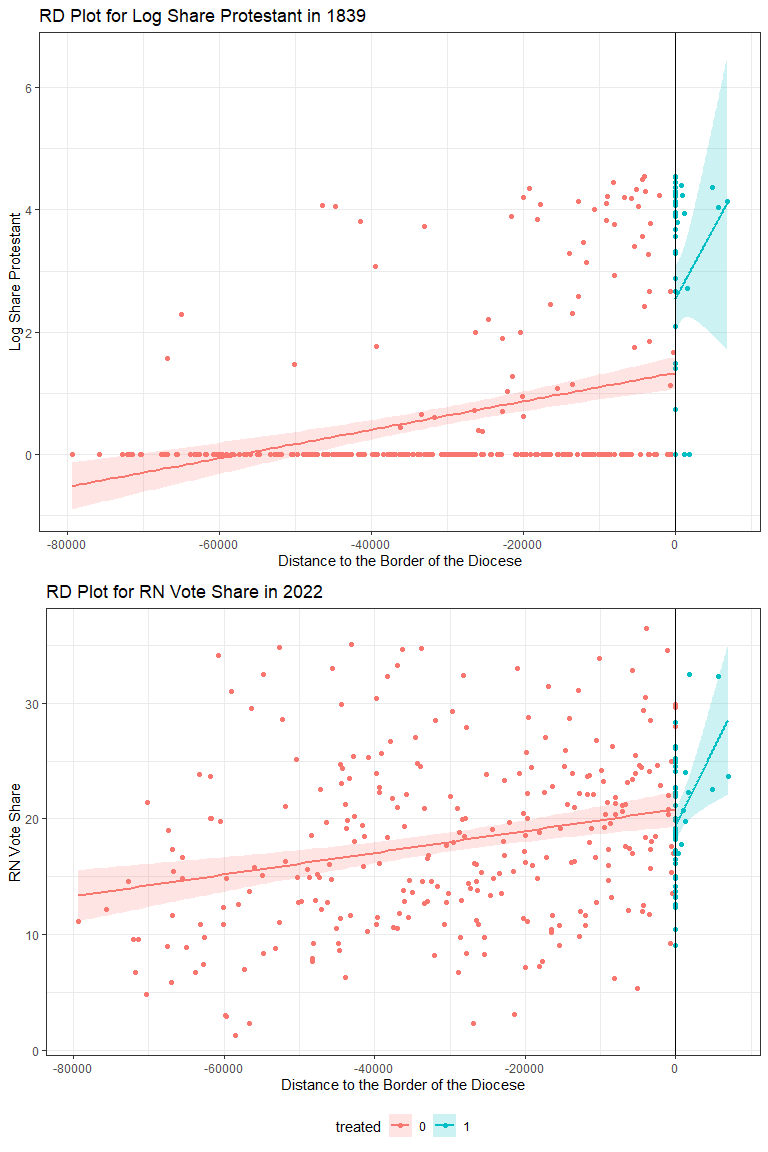
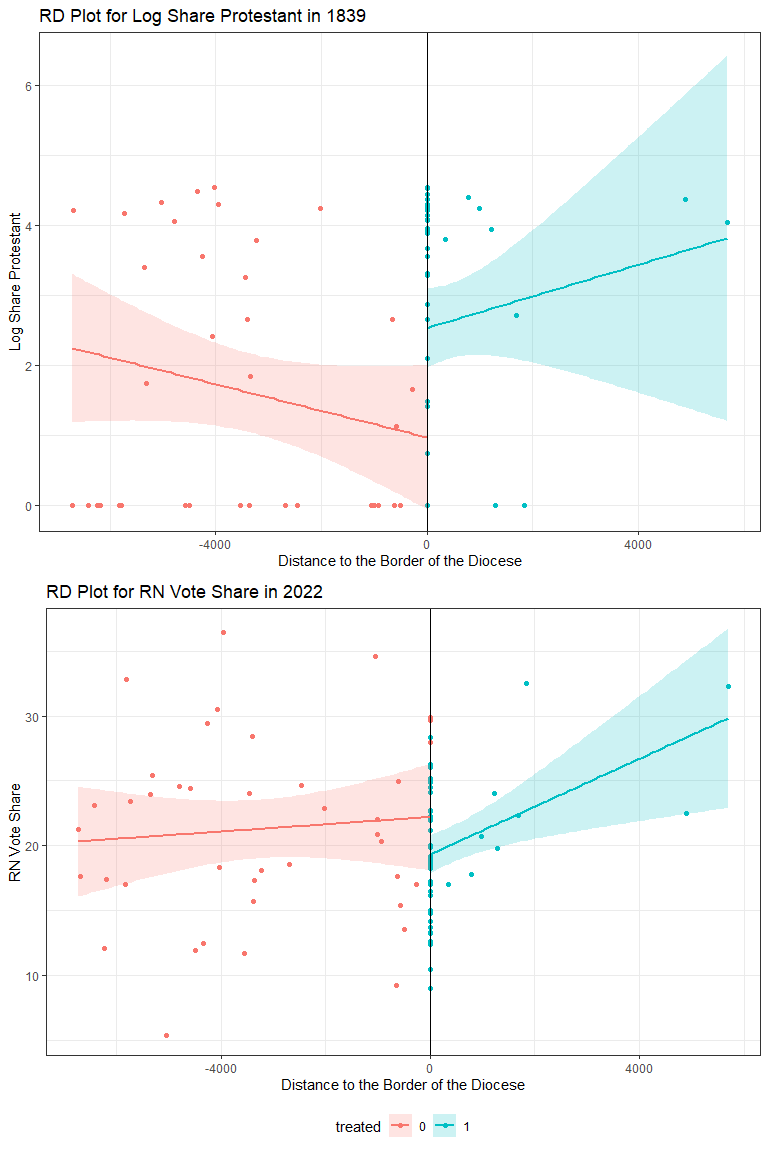
Added RDD

diff --git a/code.md b/code.md
@@ -3903,7 +3903,8 @@ smaller bandwidth.
 
 ``` r
 cowplot::plot_grid(
-  ggplot(data = d_rdd, 
+  ggplot(data = d_rdd |>
+           filter(d_rdd$dist2cutoff < max(d_rdd$distrunning)), 
          aes(x = distrunning, y = log_share_protestant, 
              colour = treated, fill = treated)) + 
     geom_point() + 
@@ -3913,7 +3914,8 @@ cowplot::plot_grid(
          y = "Log Share Protestant", 
          title = "RD Plot for Log Share Protestant in 1839") +
     theme(legend.position = "none"),
-  ggplot(data = d_rdd, 
+  ggplot(data = d_rdd |>
+           filter(d_rdd$dist2cutoff < max(d_rdd$distrunning)), 
          aes(x = distrunning, y = pvoixRN, 
              colour = treated, fill = treated)) + 
     geom_point() + 
@@ -3958,7 +3960,9 @@ summary(rdrobust(y = d_rdd$log_share_protestant, x = d_rdd$distrunning, c = 0))
     ## =====================================================================
 
 ``` r
-summary(rdrobust(y = d_rdd$pvoixRN, x = d_rdd$distrunning, fuzzy = d_rdd$log_share_protestant, c = 0))
+fuzzy_rdd <- rdrobust(y = d_rdd$pvoixRN, x = d_rdd$distrunning, fuzzy = d_rdd$log_share_protestant, c = 0)
+
+summary(fuzzy_rdd)
 ```
 
     ## Fuzzy RD estimates using local polynomial regression.
@@ -3996,42 +4000,54 @@ summary(rdrobust(y = d_rdd$pvoixRN, x = d_rdd$distrunning, fuzzy = d_rdd$log_sha
     ## =====================================================================
 
 ``` r
+fuzzy_rdd$bws["h",1] == fuzzy_rdd$bws["h",2]
+```
+
+    ## [1] TRUE
+
+``` r
+firststage <- lm(log_share_protestant ~ treated, data = d_rdd |>
+           filter(d_rdd$dist2cutoff < fuzzy_rdd$bws["h",1])
+)
+
 iv1 <- ivreg(pvoixRN ~ log_share_protestant | treated , 
-              data = d_rdd#, 
-              #subset = abs(distrunning) < 5000
+              data = d_rdd |>
+           filter(d_rdd$dist2cutoff < fuzzy_rdd$bws["h",1])
         )
 
 iv2 <- ivreg(pvoixRN ~ log_share_protestant + pop + revmoy | treated + pop + revmoy , 
-              data = d_rdd#, 
-              #subset = abs(distrunning) < 5000
+              data = d_rdd |>
+           filter(d_rdd$dist2cutoff < fuzzy_rdd$bws["h",1])
 )
 
 iv3 <- ivreg(pvoixRN ~ log_share_protestant + pop + revmoy + psup | pop + revmoy + psup + treated , 
-              data = d_rdd#, 
-              #subset = abs(distrunning) < 5000
+              data = d_rdd |>
+           filter(d_rdd$dist2cutoff < fuzzy_rdd$bws["h",1])
 )
 
 iv4 <- ivreg(psup ~ log_share_protestant + pop + revmoy | pop + revmoy + treated , 
-              data = d_rdd#, 
-              #subset = abs(distrunning) < 5000
+              data = d_rdd |>
+           filter(d_rdd$dist2cutoff < fuzzy_rdd$bws["h",1])
 )
 
-modelsummary(dvnames(list(iv1, iv2, iv3, iv4)),
+modelsummary(dvnames(list(firststage, iv1, iv2, iv3, iv4)),
         stars = TRUE
         )
 ```
 
 <table style="width:96%;">
 <colgroup>
-<col style="width: 31%" />
-<col style="width: 16%" />
-<col style="width: 16%" />
-<col style="width: 16%" />
-<col style="width: 15%" />
+<col style="width: 24%" />
+<col style="width: 24%" />
+<col style="width: 12%" />
+<col style="width: 11%" />
+<col style="width: 12%" />
+<col style="width: 10%" />
 </colgroup>
 <thead>
 <tr>
 <th></th>
+<th>log_share_protestant</th>
 <th>pvoixRN</th>
 <th>pvoixRN</th>
 <th>pvoixRN</th>
@@ -4041,35 +4057,56 @@ modelsummary(dvnames(list(iv1, iv2, iv3, iv4)),
 <tbody>
 <tr>
 <td>(Intercept)</td>
-<td>17.315***</td>
-<td>15.716***</td>
-<td>17.373***</td>
-<td>0.204***</td>
+<td>1.498***</td>
+<td>24.407***</td>
+<td>23.621**</td>
+<td>23.621**</td>
+<td>0.036</td>
 </tr>
 <tr>
 <td></td>
-<td>(0.655)</td>
-<td>(2.291)</td>
-<td>(2.353)</td>
-<td>(0.047)</td>
+<td>(0.339)</td>
+<td>(3.354)</td>
+<td>(7.793)</td>
+<td>(7.949)</td>
+<td>(0.185)</td>
+</tr>
+<tr>
+<td>treated1</td>
+<td>1.055*</td>
+<td></td>
+<td></td>
+<td></td>
+<td></td>
+</tr>
+<tr>
+<td></td>
+<td>(0.431)</td>
+<td></td>
+<td></td>
+<td></td>
+<td></td>
 </tr>
 <tr>
 <td>log_share_protestant</td>
-<td>1.055+</td>
-<td>1.168+</td>
-<td>1.222+</td>
-<td>0.007</td>
+<td></td>
+<td>-1.833</td>
+<td>-2.386</td>
+<td>-2.386</td>
+<td>0.047</td>
 </tr>
 <tr>
 <td></td>
-<td>(0.558)</td>
-<td>(0.662)</td>
-<td>(0.657)</td>
-<td>(0.014)</td>
+<td></td>
+<td>(1.517)</td>
+<td>(1.823)</td>
+<td>(1.733)</td>
+<td>(0.043)</td>
 </tr>
 <tr>
 <td>pop</td>
 <td></td>
+<td></td>
 <td>0.000</td>
 <td>0.000</td>
 <td>0.000</td>
@@ -4077,18 +4114,21 @@ modelsummary(dvnames(list(iv1, iv2, iv3, iv4)),
 <tr>
 <td></td>
 <td></td>
-<td>(0.000)</td>
-<td>(0.000)</td>
+<td></td>
+<td>(0.001)</td>
+<td>(0.001)</td>
 <td>(0.000)</td>
 </tr>
 <tr>
 <td>revmoy</td>
 <td></td>
+<td></td>
 <td>0.000</td>
 <td>0.000</td>
-<td>0.000+</td>
+<td>0.000</td>
 </tr>
 <tr>
+<td></td>
 <td></td>
 <td></td>
 <td>(0.000)</td>
@@ -4099,61 +4139,85 @@ modelsummary(dvnames(list(iv1, iv2, iv3, iv4)),
 <td>psup</td>
 <td></td>
 <td></td>
-<td>-8.127*</td>
+<td></td>
+<td>0.006</td>
 <td></td>
 </tr>
 <tr>
 <td></td>
 <td></td>
 <td></td>
-<td>(3.135)</td>
+<td></td>
+<td>(7.359)</td>
 <td></td>
 </tr>
 <tr>
 <td>Num.Obs.</td>
-<td>335</td>
-<td>239</td>
-<td>239</td>
-<td>239</td>
+<td>76</td>
+<td>76</td>
+<td>55</td>
+<td>55</td>
+<td>55</td>
 </tr>
 <tr>
 <td>R2</td>
-<td>-0.057</td>
-<td>-0.083</td>
-<td>-0.060</td>
-<td>0.015</td>
+<td>0.075</td>
+<td>-0.265</td>
+<td>-0.444</td>
+<td>-0.445</td>
+<td>-0.429</td>
 </tr>
 <tr>
 <td>R2 Adj.</td>
-<td>-0.060</td>
-<td>-0.097</td>
-<td>-0.078</td>
-<td>0.002</td>
+<td>0.062</td>
+<td>-0.282</td>
+<td>-0.529</td>
+<td>-0.560</td>
+<td>-0.513</td>
 </tr>
 <tr>
 <td>AIC</td>
-<td>2292.5</td>
-<td>1638.1</td>
-<td>1635.0</td>
-<td>-215.7</td>
+<td>311.0</td>
+<td>510.5</td>
+<td>388.2</td>
+<td>390.2</td>
+<td>-23.1</td>
 </tr>
 <tr>
 <td>BIC</td>
-<td>2303.9</td>
-<td>1655.5</td>
-<td>1655.8</td>
-<td>-198.4</td>
+<td>318.0</td>
+<td>517.5</td>
+<td>398.2</td>
+<td>402.2</td>
+<td>-13.1</td>
+</tr>
+<tr>
+<td>Log.Lik.</td>
+<td>-152.522</td>
+<td></td>
+<td></td>
+<td></td>
+<td></td>
+</tr>
+<tr>
+<td>F</td>
+<td>5.993</td>
+<td></td>
+<td></td>
+<td></td>
+<td></td>
 </tr>
 <tr>
 <td>RMSE</td>
-<td>7.34</td>
-<td>7.29</td>
-<td>7.22</td>
-<td>0.15</td>
+<td>1.80</td>
+<td>6.69</td>
+<td>7.53</td>
+<td>7.53</td>
+<td>0.18</td>
 </tr>
 </tbody><tfoot>
 <tr>
-<td colspan="5"><ul>
+<td colspan="6"><ul>
 <li>p &lt; 0.1, * p &lt; 0.05, ** p &lt; 0.01, *** p &lt; 0.001</li>
 </ul></td>
 </tr>